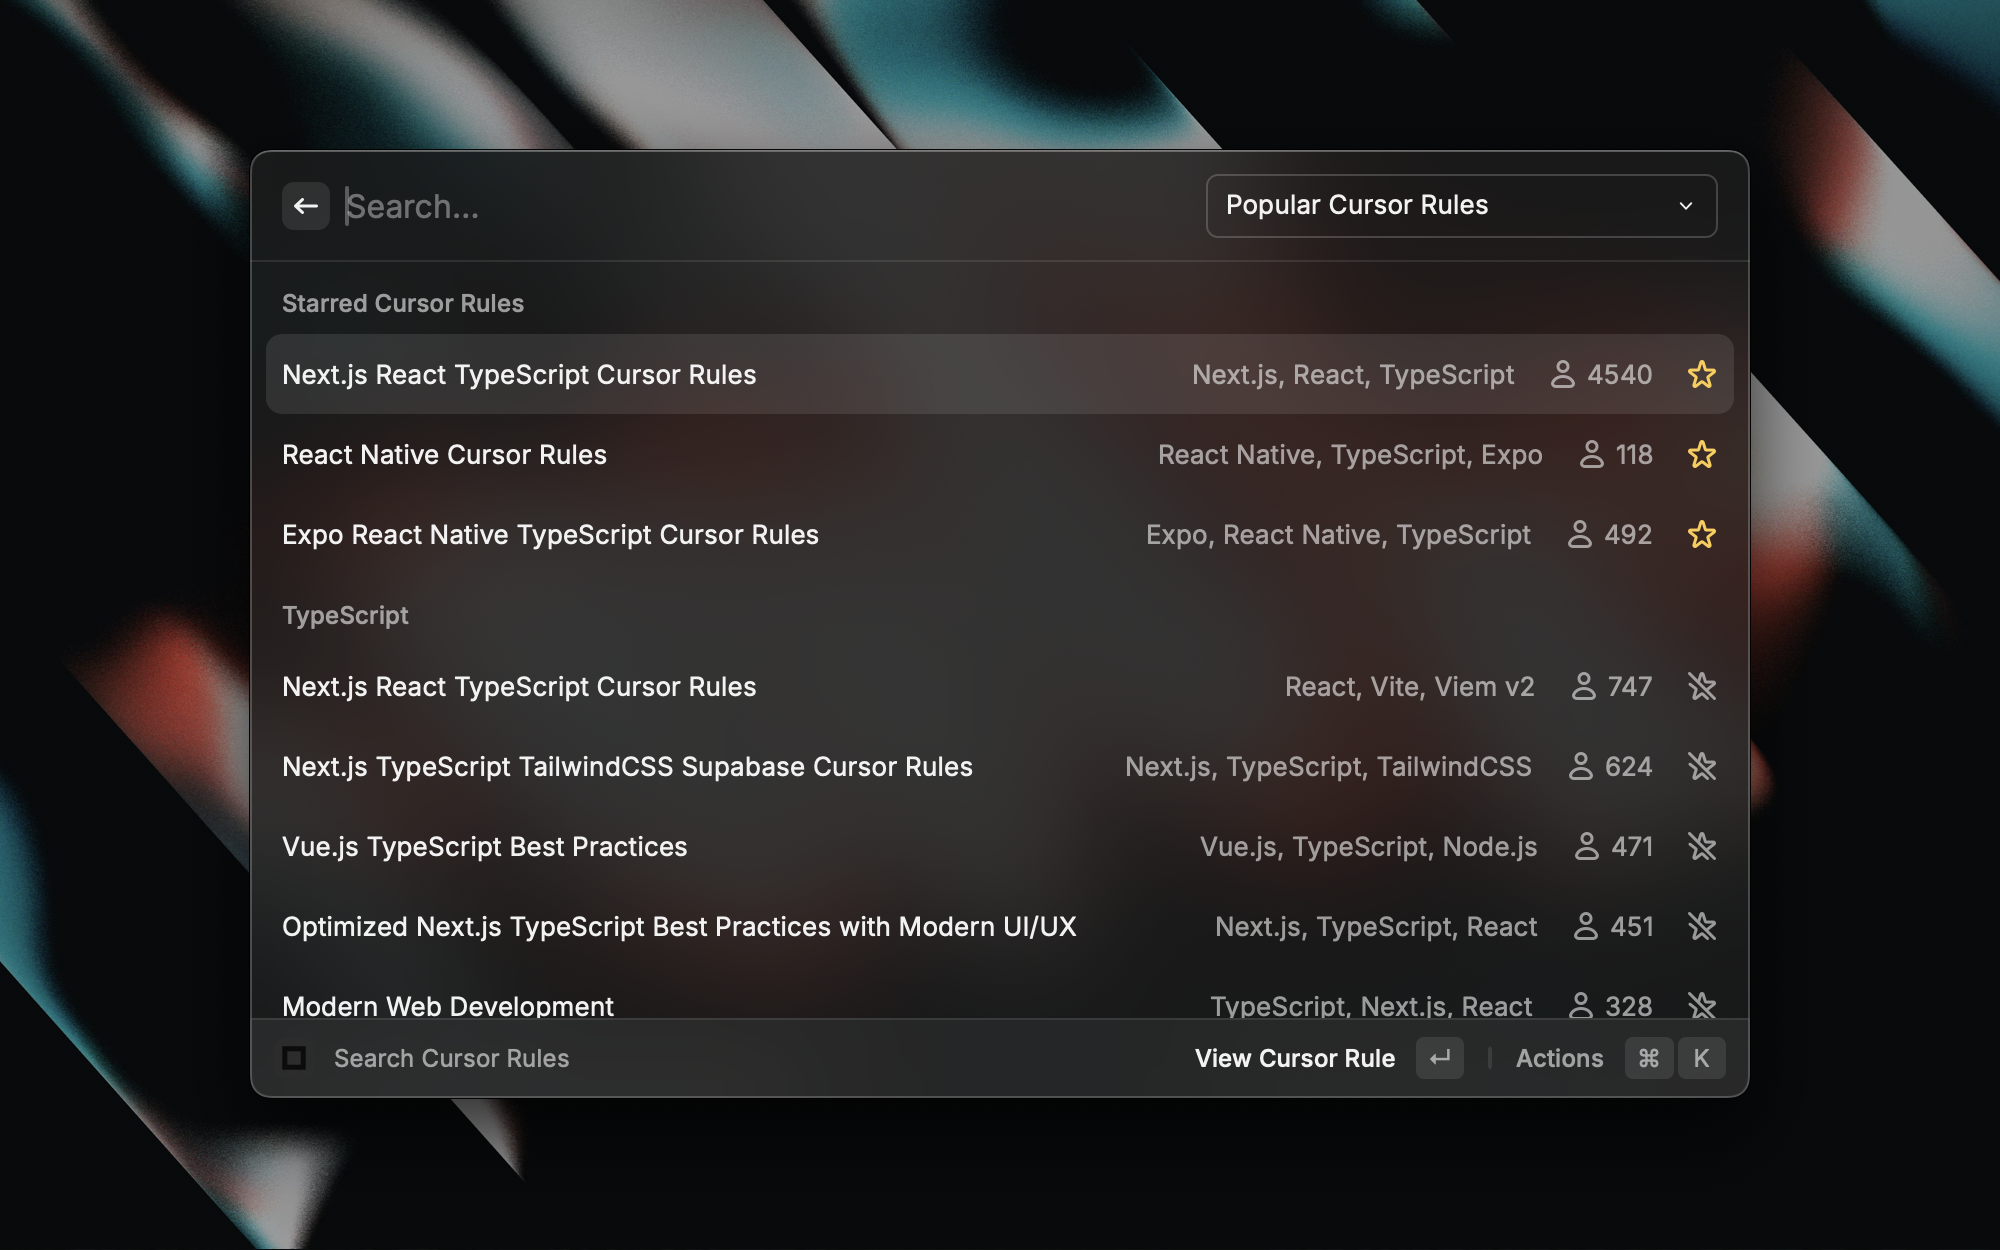
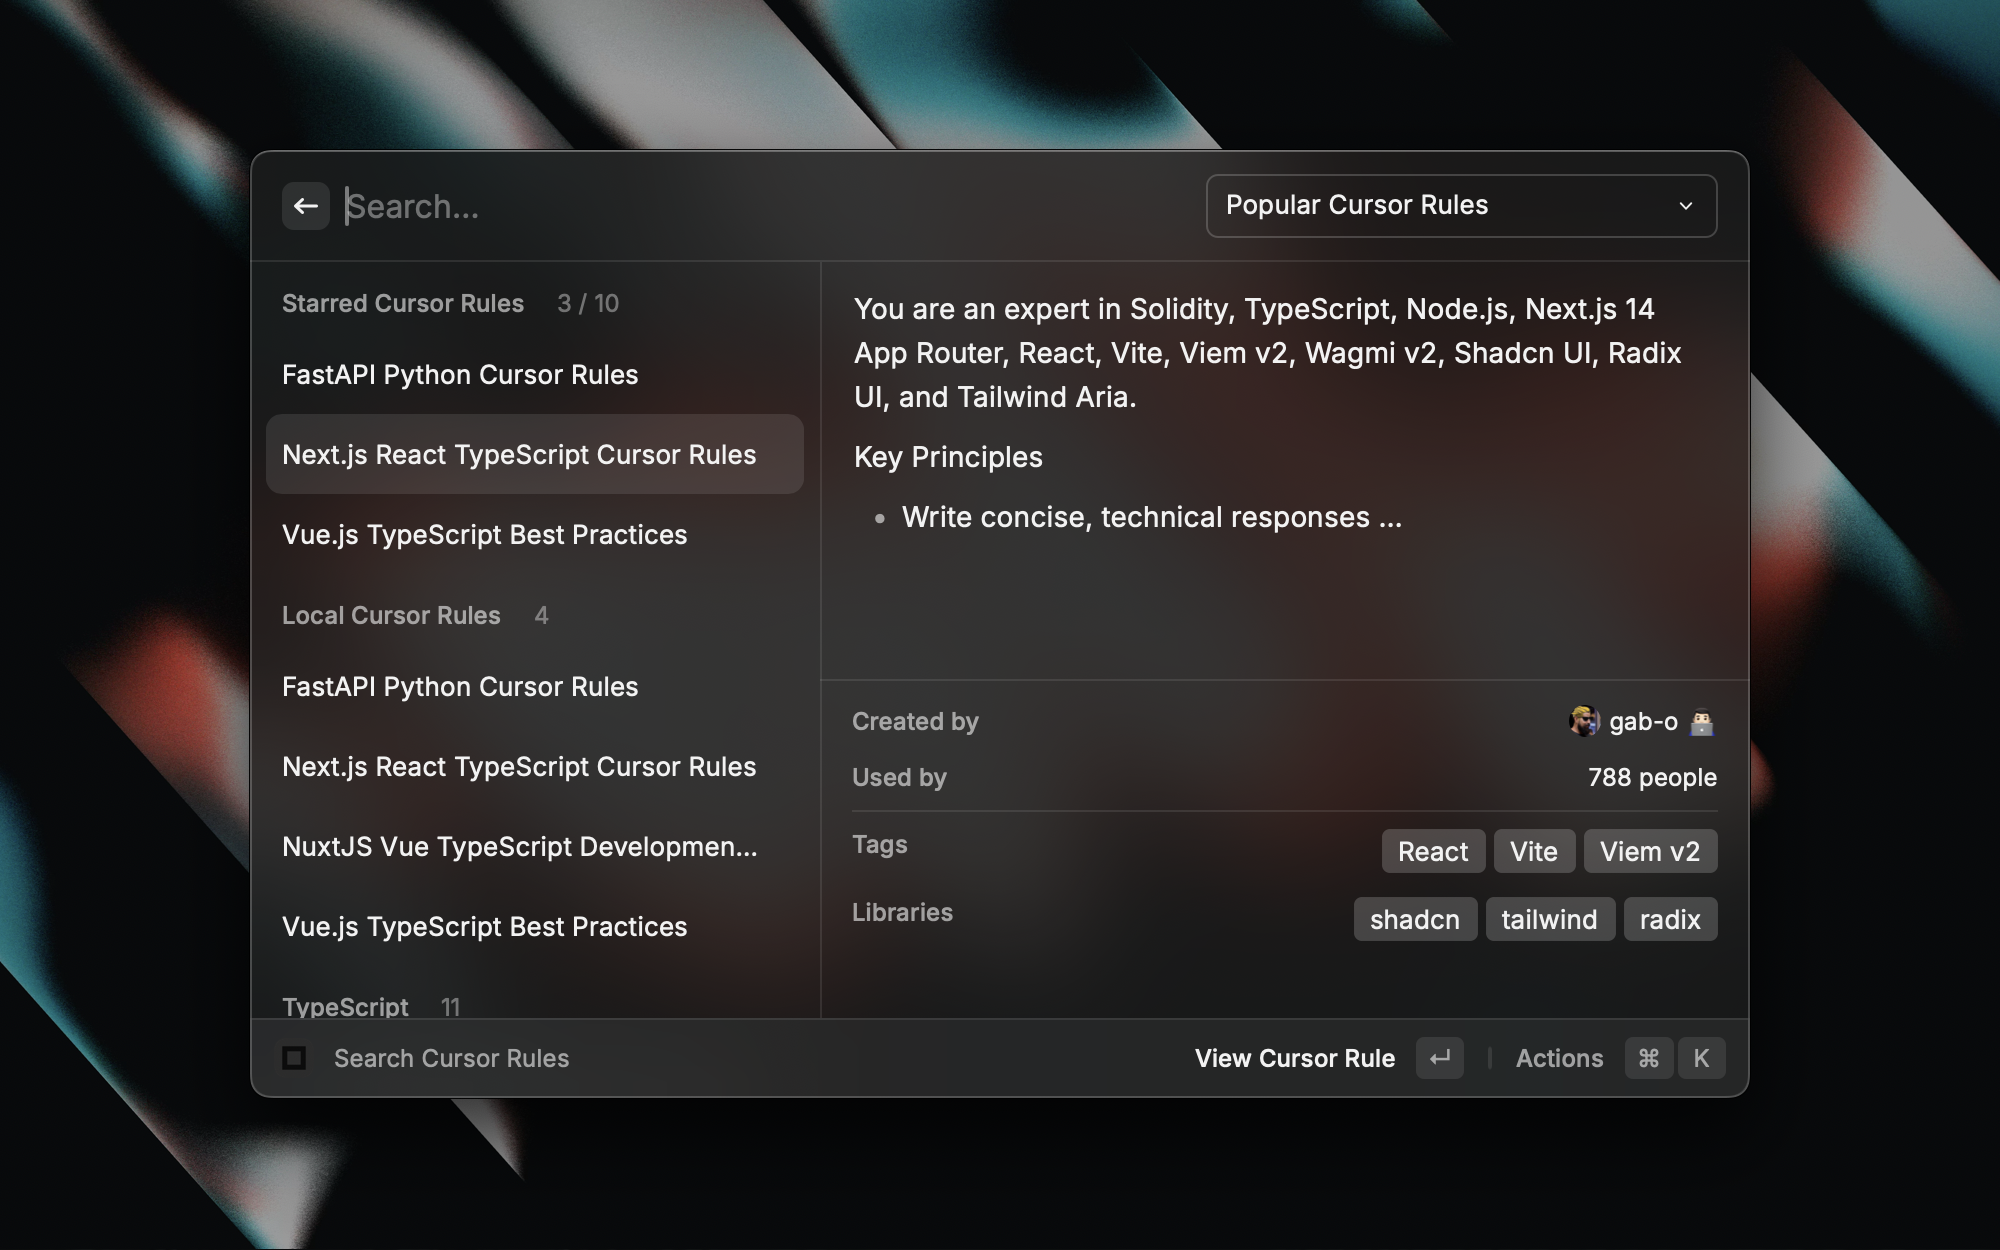
chore: update readme and changelog

diff --git a/README.md b/README.md
@@ -23,6 +23,10 @@ for usage in the Cursor Code Editor.
 
 6. After copying a cursor rule, you can paste it into `.cursorrules` file in your project.
 
+7. You can star cursor rules to quick access them later. NOTE that the max number of starred cursor rules is 10.
+
+8. If you want to modify the cursor rule locally, you can use the "Export and Edit" action to open the cursor rule as Markdown filein Cursor for editing. But make sure to install the shell command `cursor` first. (You can install it by pressing `Cmd + Shift + P` in Cursor and search for `Install cursor command`)
+
 ## Configuration
 
 Access preferences through the Action Panel or Raycast preferences:
@@ -30,3 +34,4 @@ Access preferences through the Action Panel or Raycast preferences:
 - Cache Duration: Cursor rule data is cached locally for 1 day by default.
 - Show Detailed View: Toggle the display of detailed view in cursor rules list.
 - Default Cursor Rules List: Choose to show all cursor rules or only popular ones in cursor rules list at launch.
+- Export Directory: Set the directory to export cursor rules locally.

diff --git a/CHANGELOG.md b/CHANGELOG.md
@@ -1,5 +1,10 @@
 # Cursor Directory Changelog
 
+## [Features & Improvements] - 2024-10-02
+
+- Add export and edit cursor rule locally
+- Minor UI improvements
+
 ## [Features] - 2024-09-30
 
 - Allow star and unstar cursor rules
